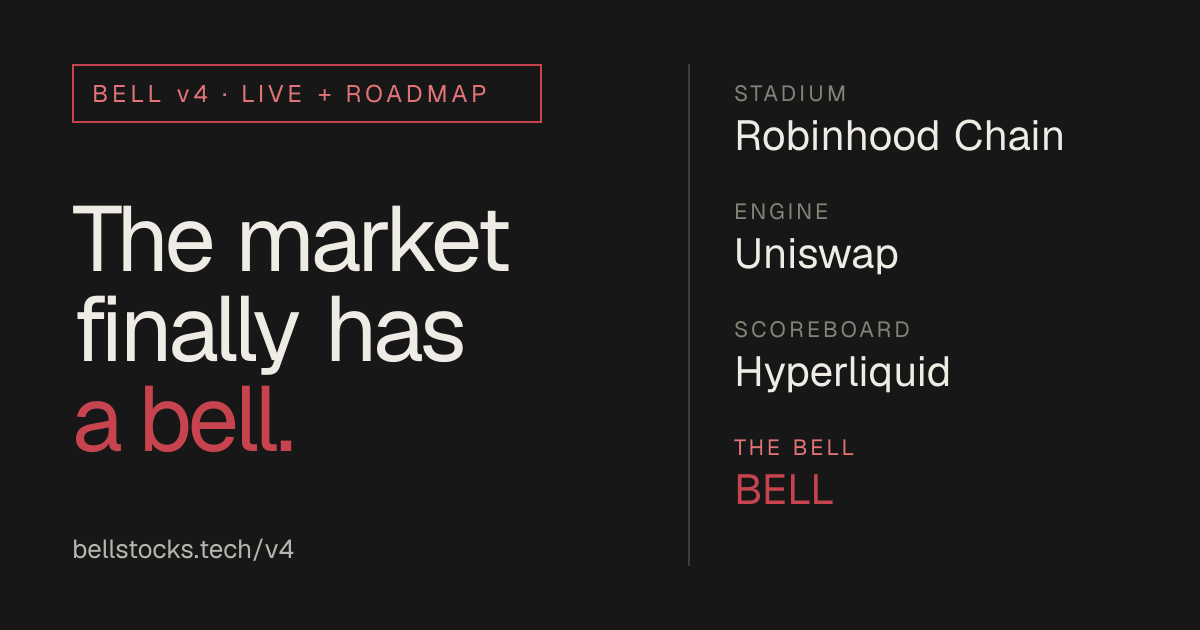
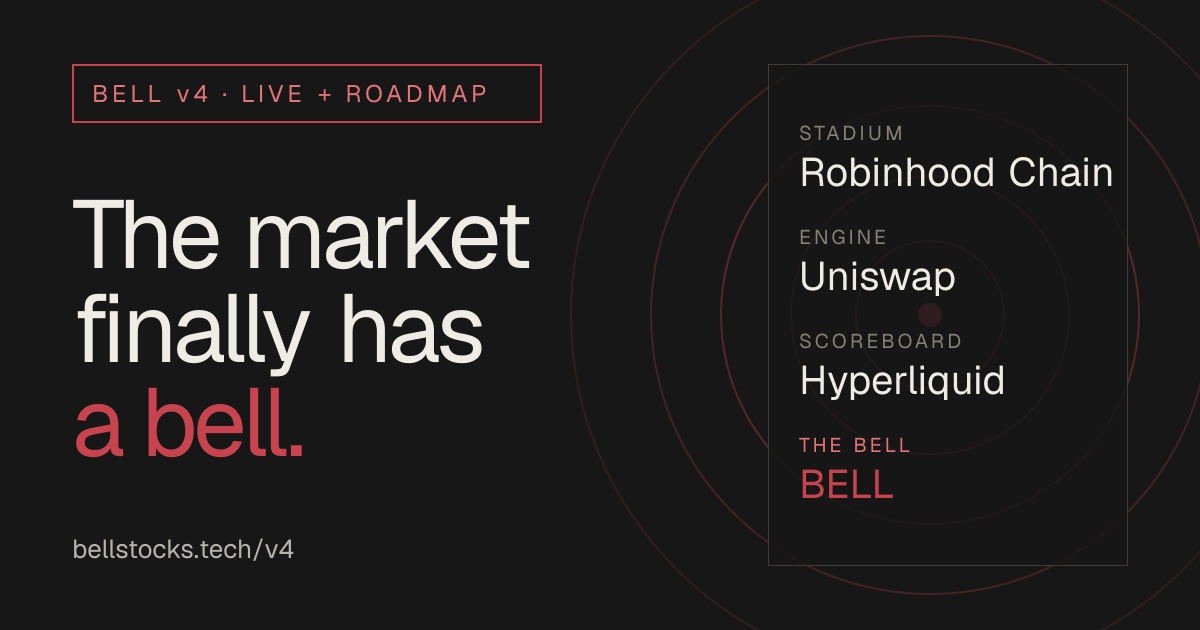
feat(web): animate /v4 with looping bell rings, step vignettes and a ticker, and drop every diamond shape

diff --git a/apps/web/components/v4/v4.css b/apps/web/components/v4/v4.css
@@ -39,10 +39,11 @@
 .v4-sub strong { margin-top:.5rem; color:var(--lp-white); font-weight:650; }
 @media (max-width:960px) { .v4-hero__grid { grid-template-columns:minmax(0,1fr); } }
 
-.v4-clock { padding:1.4rem; border:1px solid var(--lp-line-2); background:linear-gradient(180deg,rgba(238,236,229,.055),rgba(238,236,229,.012)); }
+.v4-clock { padding:1.4rem; border:1px solid var(--lp-line-2); background:linear-gradient(180deg,rgba(32,31,29,.86),rgba(23,23,23,.82)); }
 .v4-clock__label { margin:0; color:var(--lp-dim); font:500 .64rem/1.2 var(--lp-font-mono); letter-spacing:.16em; text-transform:uppercase; }
 .v4-clock__phase { display:flex; align-items:center; gap:.75rem; margin:.8rem 0 0; color:var(--lp-white); font:700 clamp(1.9rem,3.2vw,2.9rem)/1 var(--lp-font-display); letter-spacing:-.04em; }
-.v4-clock__phase::before { content:""; flex:none; width:.7rem; height:.7rem; background:var(--c,var(--lp-dim)); transform:rotate(45deg); }
+.v4-clock__phase::before { content:""; flex:none; width:.72rem; height:.72rem; border-radius:50%; background:var(--c,var(--lp-dim)); animation:v4-live 2.6s ease-out infinite; }
+@keyframes v4-live { 0% { box-shadow:0 0 0 0 color-mix(in srgb,var(--c,#858177) 60%,transparent); } 70%,100% { box-shadow:0 0 0 .75rem transparent; } }
 .v4-clock__phase[data-phase="PRE"] { --c:var(--color-phase-pre); }
 .v4-clock__phase[data-phase="REGULAR"] { --c:var(--color-phase-regular); }
 .v4-clock__phase[data-phase="POST"] { --c:var(--color-phase-post); }
@@ -101,9 +102,9 @@
 .v4-open li { position:relative; display:grid; align-content:start; gap:.8rem; padding:1.6rem clamp(1rem,2vw,2rem) 1.7rem; border-top:1px solid var(--lp-line-2); }
 .v4-open li:first-child { padding-left:0; }
 .v4-open li + li::after { content:""; position:absolute; top:1rem; left:0; bottom:1rem; width:1px; background:var(--lp-line); }
-.v4-open li::before { content:""; position:absolute; top:-5px; left:clamp(1rem,2vw,2rem); width:9px; height:9px; background:var(--lp-accent); transform:rotate(45deg); }
+.v4-open li::before { content:""; position:absolute; top:-4px; left:clamp(1rem,2vw,2rem); width:7px; height:7px; border-radius:50%; background:var(--lp-accent); }
 .v4-open li:first-child::before { left:0; }
-.v4-open__n { color:var(--lp-accent); font:400 clamp(2.4rem,4.2vw,3.8rem)/1 var(--v4-pixel); }
+.v4-open__n { color:var(--lp-accent); font:400 clamp(2rem,3.4vw,3rem)/1 var(--v4-pixel); }
 .v4-open b { color:var(--lp-white); font:650 clamp(1.15rem,1.6vw,1.45rem)/1.1 var(--lp-font-display); letter-spacing:-.035em; }
 .v4-open p { margin:0; max-width:34ch; color:var(--lp-muted); font-size:.94rem; line-height:1.55; }
 .v4-open__foot { margin:1.4rem 0 0; color:var(--lp-dim); font:500 .72rem/1.6 var(--lp-font-mono); letter-spacing:.08em; text-transform:uppercase; }
@@ -182,3 +183,98 @@
 .v4-foot nav a { color:var(--lp-muted); font:500 .8rem/1 var(--lp-font-ui); }
 
 @media (prefers-reduced-motion:reduce) { .v4-clock__needle { transition:none; } .v4-row,.v4-copy { transition:none; } }
+
+/* ---- looping art ---- */
+.v4-hero { position:relative; overflow:hidden; }
+.v4-hero__grid { position:relative; z-index:1; }
+.v4-hero__art { position:absolute; inset:0 0 0 34%; pointer-events:none; overflow:hidden; }
+.v4-hero__art::after { content:""; position:absolute; inset:0; background:radial-gradient(ellipse 62% 78% at 64% 50%,transparent 26%,var(--lp-bg) 100%); }
+.v4-hero__v4 { position:absolute; right:-3%; top:50%; transform:translateY(-53%); color:transparent; -webkit-text-stroke:1px rgba(238,236,229,.11); font:400 clamp(14rem,33vw,33rem)/.8 var(--v4-pixel); letter-spacing:-.03em; user-select:none; }
+.v4-rings { position:absolute; right:3%; top:50%; width:min(64vw,54rem); aspect-ratio:1; transform:translateY(-50%); overflow:visible; }
+.v4-rings__ring { fill:none; stroke:var(--lp-accent); stroke-width:1.4; transform-box:fill-box; transform-origin:center; opacity:0; animation:v4-ring 8.5s cubic-bezier(.16,.62,.3,1) infinite both; }
+.v4-rings__halo { fill:rgba(199,68,79,.2); transform-box:fill-box; transform-origin:center; animation:v4-halo 3.4s ease-in-out infinite; }
+.v4-rings__core { fill:var(--lp-accent); }
+@keyframes v4-ring { 0% { scale:.1; opacity:0; } 6% { opacity:.62; } 100% { scale:2.2; opacity:0; } }
+@keyframes v4-halo { 0%,100% { scale:1; opacity:.75; } 50% { scale:2; opacity:.12; } }
+@media (max-width:960px) {
+  .v4-hero__art { inset:0; }
+  .v4-hero__art::after { background:radial-gradient(ellipse 70% 60% at 70% 72%,transparent 20%,var(--lp-bg) 100%); }
+  .v4-hero__v4 { display:none; }
+  .v4-rings { right:-30%; top:auto; bottom:-8%; width:120vw; transform:none; }
+}
+
+/* ticker */
+.v4-marquee { overflow:hidden; border-block:1px solid var(--lp-line); background:rgba(238,236,229,.02); }
+.v4-marquee__track { display:flex; width:max-content; animation:v4-marquee 52s linear infinite; }
+.v4-marquee:hover .v4-marquee__track { animation-play-state:paused; }
+.v4-marquee ul { display:flex; flex:none; margin:0; padding:0; list-style:none; }
+.v4-marquee li { flex:none; padding:1.05rem 0 1rem 1.7rem; color:var(--lp-muted); font:400 .68rem/1 var(--v4-pixel); letter-spacing:.14em; text-transform:uppercase; white-space:nowrap; }
+.v4-marquee li::after { content:""; display:inline-block; width:.34rem; height:.34rem; margin-left:1.7rem; border-radius:50%; background:var(--lp-accent); vertical-align:.12em; }
+@keyframes v4-marquee { to { transform:translateX(-50%); } }
+
+/* card icons and the BELL card */
+.v4-ico { display:inline-grid; place-items:center; width:2.7rem; height:2.7rem; border:1px solid var(--lp-line-2); border-radius:50%; background:rgba(238,236,229,.03); color:var(--lp-white); transition:color .3s ease,border-color .3s ease,background-color .3s ease; }
+.v4-fits li:hover .v4-ico { color:var(--lp-accent-light); border-color:var(--lp-accent); background:rgba(199,68,79,.1); }
+.v4-ico--bell { color:var(--lp-accent-light); border-color:var(--lp-accent); background:rgba(199,68,79,.14); }
+.v4-bellcard { position:relative; overflow:hidden; }
+.v4-bellcard > div { display:grid; gap:.7rem; justify-items:start; }
+.v4-bellcard > * { position:relative; z-index:1; }
+.v4-bellcard::after { content:""; position:absolute; top:0; bottom:0; left:0; width:38%; z-index:0; pointer-events:none; background:linear-gradient(100deg,transparent,rgba(238,236,229,.075),transparent); transform:translateX(-130%); animation:v4-shine 8s ease-in-out infinite; }
+@keyframes v4-shine { 0%,55% { transform:translateX(-130%); } 100% { transform:translateX(330%); } }
+
+/* the three steps, drawn as tiny loops */
+.v4-open__art { margin-bottom:.5rem; }
+.v4-vig { display:block; width:100%; max-width:15.5rem; height:auto; overflow:hidden; }
+.v4-vig__box { fill:rgba(238,236,229,.04); stroke:rgba(238,236,229,.34); stroke-width:1.5; }
+.v4-vig__lid { stroke:var(--lp-muted); stroke-width:1.5; }
+.v4-vig__dot { fill:var(--lp-white); animation:v4-gather 5.4s ease-in-out infinite both; }
+@keyframes v4-gather { 0% { translate:var(--dx) var(--dy); opacity:0; } 12% { opacity:1; } 56% { translate:0 0; opacity:1; } 70% { translate:0 0; opacity:0; } 100% { translate:var(--dx) var(--dy); opacity:0; } }
+.v4-vig__rail { fill:none; stroke:var(--lp-line-2); stroke-width:1; stroke-dasharray:3 5; }
+.v4-vig__bar { fill:rgba(238,236,229,.13); stroke:var(--lp-muted); stroke-width:1.2; }
+.v4-vig__bar--l { animation:v4-close-l 5.4s cubic-bezier(.6,0,.2,1) infinite both; }
+.v4-vig__bar--r { animation:v4-close-r 5.4s cubic-bezier(.6,0,.2,1) infinite both; }
+@keyframes v4-close-l { 0% { translate:-70px 0; opacity:0; } 14% { opacity:1; } 48%,88% { translate:0 0; opacity:1; } 100% { translate:0 0; opacity:0; } }
+@keyframes v4-close-r { 0% { translate:70px 0; opacity:0; } 14% { opacity:1; } 48%,88% { translate:0 0; opacity:1; } 100% { translate:0 0; opacity:0; } }
+.v4-vig__strike { fill:none; stroke:var(--lp-accent); stroke-width:1.5; transform-box:fill-box; transform-origin:center; opacity:0; animation:v4-strike 5.4s ease-out infinite; }
+@keyframes v4-strike { 0%,48% { scale:.4; opacity:0; } 50% { opacity:.95; } 82% { scale:3.4; opacity:0; } 100% { scale:3.4; opacity:0; } }
+.v4-vig__pin { fill:var(--lp-accent); opacity:0; animation:v4-pin 5.4s ease-out infinite; }
+@keyframes v4-pin { 0%,48% { opacity:0; } 52%,88% { opacity:1; } 100% { opacity:0; } }
+.v4-vig__axis { fill:none; stroke:var(--lp-line-2); stroke-width:1; }
+.v4-vig__buy,.v4-vig__sell,.v4-vig__out,.v4-vig__price { fill:none; stroke-linecap:round; stroke-linejoin:round; stroke-dasharray:1; }
+.v4-vig__buy { stroke:var(--lp-white); stroke-width:2.4; animation:v4-draw-a 6.2s ease-in-out infinite; }
+.v4-vig__sell { stroke:var(--lp-muted); stroke-width:2.4; animation:v4-draw-a 6.2s ease-in-out .25s infinite; }
+.v4-vig__out { stroke:var(--lp-white); stroke-width:2; animation:v4-draw-b 6.2s ease-in-out infinite; }
+.v4-vig__price { stroke:var(--lp-accent); stroke-width:1.8; animation:v4-draw-c 6.2s ease-in-out infinite; }
+.v4-vig__hit { fill:var(--lp-accent); opacity:0; animation:v4-hit 6.2s ease-out infinite; }
+@keyframes v4-draw-a { 0% { stroke-dashoffset:1; opacity:1; } 30% { stroke-dashoffset:0; } 90% { stroke-dashoffset:0; opacity:1; } 100% { stroke-dashoffset:0; opacity:0; } }
+@keyframes v4-draw-b { 0%,30% { stroke-dashoffset:1; opacity:.3; } 46% { stroke-dashoffset:0; } 90% { stroke-dashoffset:0; opacity:.3; } 100% { stroke-dashoffset:0; opacity:0; } }
+@keyframes v4-draw-c { 0%,42% { stroke-dashoffset:1; opacity:1; } 60% { stroke-dashoffset:0; } 90% { stroke-dashoffset:0; opacity:1; } 100% { stroke-dashoffset:0; opacity:0; } }
+@keyframes v4-hit { 0%,56% { opacity:0; } 60%,90% { opacity:1; } 100% { opacity:0; } }
+
+/* closing rings */
+.v4-cta-sec { position:relative; overflow:hidden; }
+.v4-cta-sec .lp-wrap { position:relative; z-index:1; }
+.v4-cta-art { position:absolute; inset:0 0 0 38%; z-index:0; pointer-events:none; overflow:hidden; }
+.v4-cta-art::after { content:""; position:absolute; inset:0; background:radial-gradient(ellipse 60% 80% at 62% 50%,transparent 24%,var(--lp-bg) 100%); }
+.v4-cta-art .v4-rings { right:-4%; width:min(58vw,48rem); opacity:.8; }
+@media (max-width:860px) { .v4-cta-art { inset:0; } .v4-cta-art .v4-rings { right:-35%; width:110vw; top:30%; } }
+
+/* motion off: a still, finished frame of every loop */
+@media (prefers-reduced-motion:reduce) {
+  .v4-rings__ring { animation:none; }
+  .v4-rings__ring:nth-child(1) { scale:.55; opacity:.4; }
+  .v4-rings__ring:nth-child(2) { scale:.9; opacity:.28; }
+  .v4-rings__ring:nth-child(3) { scale:1.3; opacity:.18; }
+  .v4-rings__ring:nth-child(4) { scale:1.7; opacity:.1; }
+  .v4-rings__ring:nth-child(5) { scale:2; opacity:.05; }
+  .v4-rings__halo,.v4-clock__phase::before,.v4-bellcard::after { animation:none; }
+  .v4-bellcard::after { opacity:0; }
+  .v4-marquee__track { animation:none; }
+  .v4-vig__dot { animation:none; translate:0 0; opacity:.9; }
+  .v4-vig__bar--l,.v4-vig__bar--r { animation:none; translate:0 0; opacity:1; }
+  .v4-vig__strike { animation:none; opacity:0; }
+  .v4-vig__pin { animation:none; opacity:1; }
+  .v4-vig__buy,.v4-vig__sell,.v4-vig__out,.v4-vig__price { animation:none; stroke-dashoffset:0; }
+  .v4-vig__out { opacity:.3; }
+  .v4-vig__hit { animation:none; opacity:1; }
+}

diff --git a/apps/web/components/v4/v4-page.tsx b/apps/web/components/v4/v4-page.tsx
@@ -1,11 +1,12 @@
 import Link from "next/link";
-import { ArrowUpRight, Check, X } from "lucide-react";
+import { Activity, ArrowUpRight, Bell, Check, Cog, Landmark, Waypoints, X, type LucideIcon } from "lucide-react";
 import { FaXTwitter } from "react-icons/fa6";
 import { BrandLogo } from "@/components/landing/gyevo/bell-mark";
 import { LandingEffects } from "@/components/landing/gyevo/landing-effects";
 import { BellWordmark } from "@/components/ui/Logo";
 import { BELL_TOKEN, explorerAddress, explorerTx } from "@/config/mainnet";
 import progress from "@/content/build-progress.json";
+import { BellRings, ClearVignette, LockVignette, OrdersVignette } from "./art";
 import { ContractsLedger } from "./contracts-ledger";
 import { LiveProvider, LiveStrip } from "./live";
 import { StatusBadge, type Status } from "./status-badge";
@@ -22,11 +23,11 @@ BELL holds the bell.
 
 bellstocks.tech/v4`;
 
-const FITS: { name: string; role: string; text: string; status: Status }[] = [
-  { name: "Robinhood Chain", role: "The stadium", status: null, text: "Stock tokens trade 24/7. Standard pools can’t tell 3 AM Sunday from 10 AM Tuesday." },
-  { name: "Uniswap v4", role: "The engine", status: "LIVE", text: "The best AMM engine onchain. BELL is built natively on it, and gives it a clock." },
-  { name: "Hyperliquid", role: "The scoreboard", status: null, text: "Equity prices that never stop. A 24/7 price still doesn’t protect a spot LP from the weekend." },
-  { name: "Elysium", role: "The bridge", status: "BUILDING TOWARD", text: "Contracts that read HyperCore directly. The price BELL’s auction wants at the open." },
+const FITS: { name: string; role: string; text: string; status: Status; icon: LucideIcon }[] = [
+  { name: "Robinhood Chain", role: "The stadium", status: null, icon: Landmark, text: "Stock tokens trade 24/7. Standard pools can’t tell 3 AM Sunday from 10 AM Tuesday." },
+  { name: "Uniswap v4", role: "The engine", status: "LIVE", icon: Cog, text: "The best AMM engine onchain. BELL is built natively on it, and gives it a clock." },
+  { name: "Hyperliquid", role: "The scoreboard", status: null, icon: Activity, text: "Equity prices that never stop. A 24/7 price still doesn’t protect a spot LP from the weekend." },
+  { name: "Elysium", role: "The bridge", status: "BUILDING TOWARD", icon: Waypoints, text: "Contracts that read HyperCore directly. The price BELL’s auction wants at the open." },
 ];
 
 const VERSUS: [string, string, string][] = [
@@ -48,11 +49,13 @@ const FEATURES: { name: string; status: Status; note: string }[] = [
   { name: "HyperCore reference price", status: "BUILDING TOWARD", note: "Depends on Elysium EL1Read" },
 ];
 
-const OPEN_STEPS = [
-  { n: "01", title: "Orders collect", text: "Before the open, orders gather in escrow instead of racing each other. Cancel any time until the book locks." },
-  { n: "02", title: "Book locks", text: "At the bell the book closes. No order can jump the line, and ordinary swaps on that pool pause." },
-  { n: "03", title: "One clearing price", text: "The contract picks the single price that matches the most volume. Everything that does not match is refunded." },
+const OPEN_STEPS: { n: string; title: string; text: string; art: () => React.ReactElement }[] = [
+  { n: "01", title: "Orders collect", art: OrdersVignette, text: "Before the open, orders gather in escrow instead of racing each other. Cancel any time until the book locks." },
+  { n: "02", title: "Book locks", art: LockVignette, text: "At the bell the book closes. No order can jump the line, and ordinary swaps on that pool pause." },
+  { n: "03", title: "One clearing price", art: ClearVignette, text: "The contract picks the single price that matches the most volume. Everything that does not match is refunded." },
 ];
+
+const TICKER = ["Session-aware fees", "Flow caps", "Fail-closed swaps", "Unblockable exits", "One price at the open", "Immutable hooks", "Zero proxies", "Escrow with permissionless refunds"];
 
 const RECEIPTS: [string, string | null][] = [
[1 lines of base64/hex data omitted]
@@ -99,6 +102,10 @@ export function V4Page() {
       <main id="main">
         {/* 01 · hero */}
         <section className="lp-sec v4-hero" id="top" aria-labelledby="v4-title">
+          <div className="v4-hero__art" aria-hidden="true">
+            <span className="v4-hero__v4">V4</span>
+            <BellRings />
+          </div>
           <div className="lp-wrap v4-hero__grid">
             <div className="v4-hero__copy">
               <p className="v4-label" data-lp-reveal>BELL v4 · LIVE + ROADMAP</p>
@@ -120,6 +127,16 @@ export function V4Page() {
           </div>
         </section>
 
+        <div className="v4-marquee" aria-label="What the BELL hook enforces">
+          <div className="v4-marquee__track">
+            {[0, 1].map((copy) => (
+              <ul key={copy} aria-hidden={copy === 1}>
+                {TICKER.map((t) => <li key={t}>{t}</li>)}
+              </ul>
+            ))}
+          </div>
+        </div>
+
         {/* 02 · where BELL fits */}
         <section className="lp-sec v4-sec" id="fits" aria-labelledby="fits-title">
           <div className="lp-wrap">
@@ -130,6 +147,7 @@ export function V4Page() {
             <ul className="v4-fits">
               {FITS.map((f, i) => (
                 <li key={f.name} data-lp-reveal style={{ ["--i" as string]: i }}>
+                  <span className="v4-ico"><f.icon size={20} strokeWidth={1.6} aria-hidden="true" /></span>
                   <span className="v4-role">{f.role}</span>
                   <b>{f.name}</b>
                   <p>{f.text}</p>
@@ -139,6 +157,7 @@ export function V4Page() {
             </ul>
             <article className="v4-bellcard" data-lp-reveal>
               <div>
+                <span className="v4-ico v4-ico--bell"><Bell size={20} strokeWidth={1.6} aria-hidden="true" /></span>
                 <span className="v4-role">The bell</span>
                 <h3>BELL</h3>
               </div>
@@ -201,6 +220,7 @@ export function V4Page() {
             <ol className="v4-open">
               {OPEN_STEPS.map((s, i) => (
                 <li key={s.n} data-lp-reveal style={{ ["--i" as string]: i }}>
+                  <div className="v4-open__art"><s.art /></div>
                   <span className="v4-open__n" aria-hidden="true">{s.n}</span>
                   <b>{s.title}</b>
                   <p>{s.text}</p>
@@ -273,6 +293,7 @@ export function V4Page() {
 
         {/* 09 · cta */}
         <section className="lp-sec v4-cta-sec" id="cta" aria-labelledby="cta-title">
+          <div className="v4-cta-art" aria-hidden="true"><BellRings /></div>
           <div className="lp-wrap">
             <h2 className="v4-h1 v4-h1--cta" id="cta-title" data-lp-reveal>The bell rings <em>onchain.</em></h2>
             <div className="v4-cta" data-lp-reveal style={{ ["--i" as string]: 1 }}>

diff --git a/apps/web/components/v4/art.tsx b/apps/web/components/v4/art.tsx
@@ -1,0 +1,56 @@
+/* Looping artwork for /v4. Pure SVG and CSS: no scripts, no images to download. Every loop stops under
+   prefers-reduced-motion and leaves a finished still frame behind. */
+
+/* The bell, struck: rings leave a point and fade. Five rings, staggered, so the loop never visibly restarts. */
+export function BellRings({ className = "" }: { className?: string }) {
+  return (
+    <svg className={`v4-rings ${className}`} viewBox="0 0 640 640" aria-hidden="true" focusable="false">
+      {[0, 1, 2, 3, 4].map((i) => (
+        <circle key={i} className="v4-rings__ring" cx="320" cy="320" r="150" style={{ animationDelay: `${i * 1.7}s` }} />
+      ))}
+      <circle className="v4-rings__halo" cx="320" cy="320" r="16" />
+      <circle className="v4-rings__core" cx="320" cy="320" r="5" />
+    </svg>
+  );
+}
+
+/* 01 · orders gather in escrow */
+const DOTS: [number, number][] = [[-86, -34], [-96, 8], [-78, 40], [84, -38], [96, 4], [80, 38]];
+export function OrdersVignette() {
+  return (
+    <svg className="v4-vig" viewBox="0 0 240 120" aria-hidden="true" focusable="false">
+      <rect className="v4-vig__box" x="92" y="36" width="56" height="48" rx="3" />
+      <path className="v4-vig__lid" d="M92 36H148" />
+      {DOTS.map(([dx, dy], i) => (
+        <circle key={i} className="v4-vig__dot" cx="120" cy="60" r="4" style={{ ["--dx" as string]: `${dx}px`, ["--dy" as string]: `${dy}px`, animationDelay: `${i * 0.38}s` }} />
+      ))}
+    </svg>
+  );
+}
+
+/* 02 · the book locks at the bell */
+export function LockVignette() {
+  return (
+    <svg className="v4-vig" viewBox="0 0 240 120" aria-hidden="true" focusable="false">
+      <path className="v4-vig__rail" d="M16 60H224" />
+      <rect className="v4-vig__bar v4-vig__bar--l" x="16" y="48" width="104" height="24" rx="2" />
+      <rect className="v4-vig__bar v4-vig__bar--r" x="120" y="48" width="104" height="24" rx="2" />
+      <circle className="v4-vig__strike" cx="120" cy="60" r="10" />
+      <circle className="v4-vig__pin" cx="120" cy="60" r="4" />
+    </svg>
+  );
+}
+
+/* 03 · one clearing price across the book */
+export function ClearVignette() {
+  return (
+    <svg className="v4-vig" viewBox="0 0 240 120" aria-hidden="true" focusable="false">
+      <path className="v4-vig__axis" d="M20 100H224M20 100V14" />
+      <path className="v4-vig__buy" pathLength="1" d="M24 26H70V44H116V58H150" />
+      <path className="v4-vig__sell" pathLength="1" d="M24 88H64V74H112V60H150" />
+      <path className="v4-vig__out" pathLength="1" d="M150 58H180V70H214M150 60H178V46H212" />
+      <path className="v4-vig__price" pathLength="1" d="M20 59H224" />
+      <circle className="v4-vig__hit" cx="150" cy="59" r="4.5" />
+    </svg>
+  );
+}

diff --git a/apps/web/components/landing/gyevo/auction-section.css b/apps/web/components/landing/gyevo/auction-section.css
@@ -76,8 +76,8 @@
 .lp--bell .lp-auc__stages b { color:var(--lp-white); font:650 clamp(1rem,1.3vw,1.25rem)/1.1 var(--lp-font-display); letter-spacing:-.035em; }
 .lp--bell .lp-auc__stages small { color:var(--lp-muted); font-size:clamp(.78rem,.85vw,.88rem); line-height:1.55; }
 .lp--bell .lp-auc__stages li[data-bell="true"] { background:linear-gradient(180deg,rgba(238,236,229,.06),transparent 90%); }
-.lp--bell .lp-auc__stages li[data-bell="true"]::before { content:""; position:absolute; top:-5px; left:clamp(.9rem,1.5vw,1.5rem); width:9px; height:9px; background:var(--lp-accent); transform:rotate(45deg); }
-.lp--bell .lp-auc__stages li[data-bell="true"] .lp-auc__when { color:var(--lp-accent-light); }
+.lp--bell .lp-auc__stages li[data-bell="true"] .lp-auc__when { display:inline-flex; align-items:center; gap:.45rem; color:var(--lp-accent-light); }
+.lp--bell .lp-auc__bell { flex:none; color:var(--lp-accent); }
 
 .lp--bell .lp-auc__bottom { display:flex; align-items:center; justify-content:space-between; flex-wrap:wrap; gap:1.2rem 2.5rem; }
 .lp--bell .lp-auc__fine { max-width:68ch; margin:0; color:var(--lp-dim); font-size:.82rem; line-height:1.55; }
@@ -89,8 +89,7 @@
   .lp--bell .lp-auc__stages { grid-template-columns:repeat(2,minmax(0,1fr)); }
   .lp--bell .lp-auc__stages li:nth-child(odd) { padding-left:0; }
   .lp--bell .lp-auc__stages li:nth-child(odd)::after { content:none; }
-  .lp--bell .lp-auc__stages li[data-bell="true"]::before { left:clamp(.9rem,1.5vw,1.5rem); }
-}
+  }
 
 /* On phones the drawing is compressed in width, so its type stays readable at about two thirds size. */
 @media (max-width:640px) {
@@ -106,8 +105,7 @@
   .lp--bell .lp-auc__stages { grid-template-columns:minmax(0,1fr); }
   .lp--bell .lp-auc__stages li,.lp--bell .lp-auc__stages li:first-child { padding-left:1.1rem; border-left:1px solid var(--lp-line-2); border-top:0; }
   .lp--bell .lp-auc__stages li + li::after { content:none; }
-  .lp--bell .lp-auc__stages li[data-bell="true"]::before { top:1.45rem; left:-5px; }
-  .lp--bell .lp-auc__facts dt { font-size:1.25rem; }
+    .lp--bell .lp-auc__facts dt { font-size:1.25rem; }
   .lp--bell .lp-auc__cta { width:100%; }
   .lp--bell .lp-auc__cta .lp-btn { flex:1 1 11rem; justify-content:center; }
 }

diff --git a/apps/web/components/landing/gyevo/auction-section.tsx b/apps/web/components/landing/gyevo/auction-section.tsx
@@ -1,4 +1,5 @@
 import Link from "next/link";
+import { Bell } from "lucide-react";
 import { Arrow } from "./arrow";
 
 /* Opening Bell Auction. Presentation only: every figure below is a deployed contract parameter
@@ -157,7 +158,7 @@ export function AuctionSection() {
         <ol className="lp-auc__stages">
           {STAGES.map((s) => (
             <li key={s.name} data-bell={"bell" in s ? "true" : "false"} data-lp-reveal style={{ ["--i" as string]: 1 }}>
-              <span className="lp-auc__when">{s.when}</span>
+              <span className="lp-auc__when">{"bell" in s && <Bell className="lp-auc__bell" size={13} strokeWidth={1.8} aria-hidden="true" />}{s.when}</span>
               <b>{s.name}</b>
               <small>{s.text}</small>
             </li>
